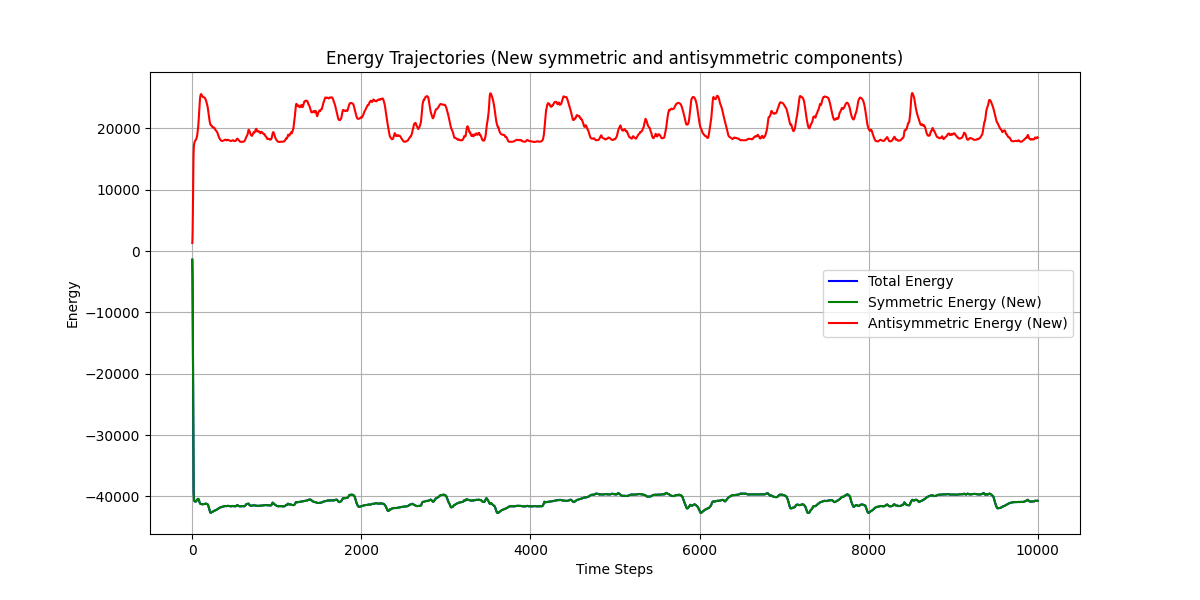
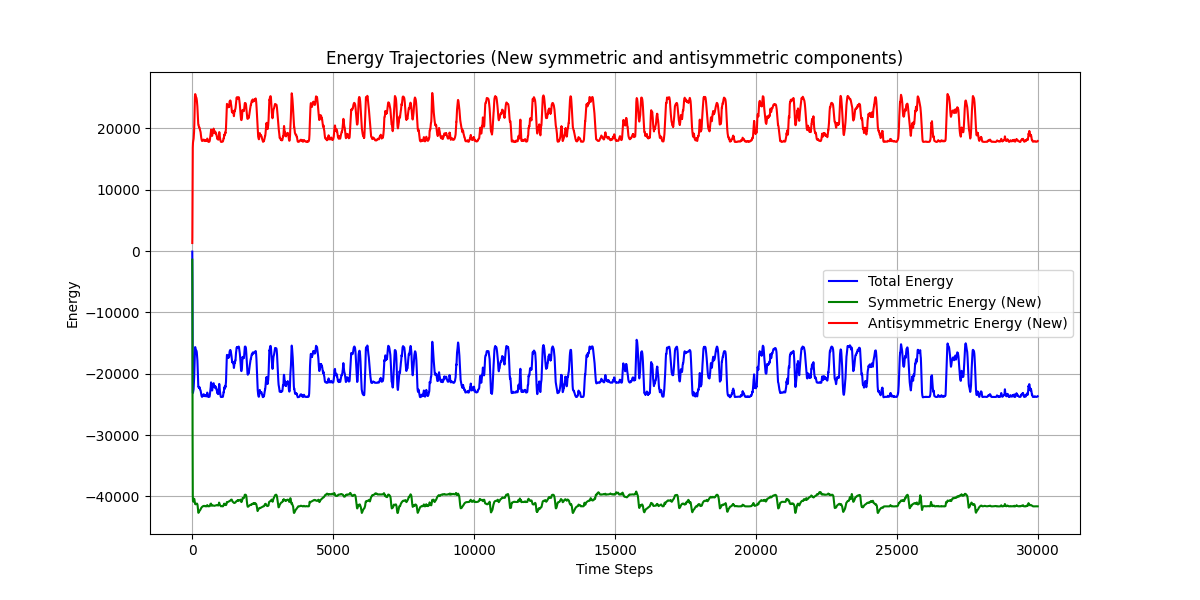
energy

diff --git a/src/energy_plots.py b/src/energy_plots.py
@@ -1,0 +1,135 @@
+"""
+energy_plots.py 
+This module generates energy plots for the neural network simulation.
+"""
+import os
+from flask import app
+import numpy as np
+import matplotlib.pyplot as plt
+from sklearn import naive_bayes
+from sympy import E, use
+from modules.connectivity import generate_connectivity_matrix, plot_matrix
+from modules.dynamics import simulate_network, calculate_pattern_overlaps
+from modules.energy import compute_energy
+
+# Import all parameters from parameters.py
+from parameters import (
+    # Connectivity matrix parameters
+    N,
+    p,
+    q,
+    c,
+    A_S,
+    phi_function_type,
+    phi_amplitude,
+    phi_beta,
+    phi_r_m,
+    phi_x_r,
+    f_type,
+    f_r_m,
+    f_beta,
+    f_x_r,
+    f_q,
+    f_x,
+    g_type,
+    g_r_m,
+    g_beta,
+    g_x_r,
+    g_q,
+    g_x,
+    pattern_mean,
+    pattern_sigma,
+    enforce_max_correlation,
+    max_correlation,
+    alpha,
+    apply_sigma_cutoff,
+    apply_phi_to_patterns,
+    apply_er_to_asymmetric,
+
+    # Simulation parameters
+    tau,
+    t_start,
+    t_end,
+    dt,
+    init_cond_type,
+    pattern_idx,
+    noise_level,
+    use_symmetric_only,
+    model_type,
+    use_numba,
+    use_g,
+    use_ou,
+    tau_zeta,
+    zeta_bar,
+    sigma_zeta,
+    constant_zeta,
+
+    # Visualization parameters
+    n_display,
+    show_sim_plots,
+
+    # Seed for reproducibility
+    seed
+    )
+
+def main():
+    output_dir = os.path.join(os.path.dirname(__file__), "..", "simulation_results")
+    npy_dir = os.path.join(output_dir, "npy")
+
+    # Calculate and plot energy
+    print("Calculating and plotting energy...")
+    # Loading connectivity matrices and history from npy files
+    connectivity_path = os.path.join(npy_dir, "connectivity_total.npy")
+    overlaps_path = os.path.join(npy_dir, "pattern_overlaps.npy")
+    original_symm_path = os.path.join(npy_dir, "connectivity_symmetric.npy")
+    history_path = os.path.join(npy_dir, "firing_rates.npy")
+    phi_memory_patterns_path = os.path.join(npy_dir, "phi_memory_patterns.npy")
+    W, h = np.load(connectivity_path), np.load(history_path)
+    W_symm = np.load(original_symm_path)
+    phi_memory_patterns = np.load(phi_memory_patterns_path)
+    pattern_energies, _, _ = compute_energy(W_symm, phi_memory_patterns)
+    for i in range(pattern_energies.shape[0]):
+        print(f"Energy for pattern {i+1}: {pattern_energies[i]:.4f}")
+    # plot energy trajectory
+    E_symm_traj, syn_terms, act_terms = compute_energy(W_symm, h)
+    E_asymm_traj, _, _ = compute_energy(W - W_symm, h)
+    E_total_traj = E_symm_traj + E_asymm_traj
+    
+    t = np.arange(E_symm_traj.shape[0])  # but time steps are dt seconds apart so multiply by dt
+    t = t * dt
+    plt.figure(figsize=(12, 6))
+    plt.plot(t, E_symm_traj, label='Symmetric Energy', color='green')
+    for i in range(3):
+        pattern_energies[i] = 4.47 * pattern_energies[i] - 33150
+        plt.plot(t, np.full_like(t, pattern_energies[i]), label=f'Pattern {i+1} Energy', linestyle='--')
+    plt.show()
+
+    plt.figure(figsize=(12, 6))
+    plt.plot(t, E_total_traj, label='Total Energy', color='blue')
+    plt.plot(t, E_symm_traj, label='Symmetric Energy', color='green')
+    plt.plot(t, E_asymm_traj, label='Asymmetric Energy', color='red')
+    plt.xlabel('Time Steps')
+    plt.ylabel('Energy')
+    plt.title('Energy Trajectories (Original symmetric and asymmetric components)')
+    plt.legend()
+    plt.grid()
+    plt.savefig(os.path.join(output_dir, "energy_trajectories_original.png"))
+    plt.show()
+    plt.figure(figsize=(12, 6))
+    W_symm_new = 0.5 * (W + W.T)
+    W_antisym_new = 0.5 * (W - W.T)
+    E_symm_new_traj, _, _ = compute_energy(W_symm_new, h)
+    E_asymm_new_traj, _, _ = compute_energy(W_antisym_new, h)
+    plt.plot(t, E_total_traj, label='Total Energy', color='blue')
+    plt.plot(t, E_symm_new_traj, label='Symmetric Energy (New)', color='green')
+    plt.plot(t, E_asymm_new_traj, label='Antisymmetric Energy (New)', color='red')
+    plt.xlabel('Time Steps')
+    plt.ylabel('Energy')
+    plt.title('Energy Trajectories (New symmetric and antisymmetric components)')
+    plt.legend()
+    plt.grid()
+    plt.savefig(os.path.join(output_dir, "energy_trajectories_new.png"))
+    plt.show()
+
+if __name__ == "__main__":
+    main()

diff --git a/src/main.py b/src/main.py
@@ -635,54 +635,5 @@ def main():
         print("Plots not displayed, only saved to files.")
     plt.close('all')  # Close all figures to free memory
 
-    # Calculate and plot energy
-    print("\nCalculating and plotting energy trajectories...")
-    # Load connectivity matrices and history from npy files
-    connectivity_path = os.path.join(npy_dir, "connectivity_total.npy")
-    overlaps_path = os.path.join(npy_dir, "pattern_overlaps.npy")
-    original_symm_path = os.path.join(npy_dir, "connectivity_symmetric.npy")
-    original_asymm_path = os.path.join(npy_dir, "connectivity_asymmetric.npy")
-    history_path = os.path.join(npy_dir, "firing_rates.npy")
-    phi_memory_patterns_path = os.path.join(npy_dir, "phi_memory_patterns.npy")
-    W, h = np.load(connectivity_path), np.load(history_path)
-    W_symm = np.load(original_symm_path)
-    W_asymm = np.load(original_asymm_path)
-    phi_memory_patterns = np.load(phi_memory_patterns_path)
-    patterns = phi_memory_patterns.shape[0] if phi_memory_patterns.ndim > 1 else 1
-    for i in range(patterns):
-        print(f"Energy for pattern {i+1}: {compute_energy(W_symm, phi_memory_patterns[i])}")
-    # plot energy trajectories both original and divided with symmetric and antisymmetric components
-    E_total_traj = compute_energy(W, h)
-    E_symm_traj = compute_energy(W_symm, h)
-    E_asymm_traj = compute_energy(W_asymm, h)
-    t = np.arange(E_total_traj.shape[0])  # but time steps are dt seconds apart so multiply by dt
-    t = t * dt
-    print(E_symm_traj[4300] - E_symm_traj[300])
-    plt.figure(figsize=(12, 6))
-    plt.plot(t, E_total_traj, label='Total Energy', color='blue')
-    plt.plot(t, E_symm_traj, label='Symmetric Energy', color='green')
-    plt.plot(t, E_asymm_traj, label='Asymmetric Energy', color='red')
-    plt.xlabel('Time Steps')
-    plt.ylabel('Energy')
-    plt.title('Energy Trajectories (Original symmetric and asymmetric components)')
-    plt.legend()
-    plt.grid()
-    plt.savefig(os.path.join(output_dir, "energy_trajectories_original.png"))
-    plt.show()
-    plt.figure(figsize=(12, 6))
-    W_symm_new = 0.5 * (W + W.T)
-    W_antisym_new = 0.5 * (W - W.T)
-    E_symm_new_traj, E_asymm_new_traj = compute_energy(W_symm_new, h), compute_energy(W_antisym_new, h)
-    plt.plot(t, E_total_traj, label='Total Energy', color='blue')
-    plt.plot(t, E_symm_new_traj, label='Symmetric Energy (New)', color='green')
-    plt.plot(t, E_asymm_new_traj, label='Antisymmetric Energy (New)', color='red')
-    plt.xlabel('Time Steps')
-    plt.ylabel('Energy')
-    plt.title('Energy Trajectories (New symmetric and antisymmetric components)')
-    plt.legend()
-    plt.grid()
-    plt.savefig(os.path.join(output_dir, "energy_trajectories_new.png"))
-    plt.show()
-
 if __name__ == "__main__":
     main()

diff --git a/src/modules/energy.py b/src/modules/energy.py
@@ -8,6 +8,7 @@ It also computes the energy trajectories for both the original symmetric and asy
 and the new symmetric and antisymmetric components derived from the total connectivity matrix.
 """
 
+import re
 import numpy as np
 from scipy.integrate import quad
 from scipy.interpolate import interp1d
@@ -69,17 +70,25 @@ def compute_energy(
 
     # Compute energy for each state
     energies = np.zeros(M)
+    syn_terms = np.zeros(M)
+    act_terms = np.zeros(M)
     for t in range(M):
         h_t = h[t, :]
         h_t_clipped = np.clip(h_t, h_clip_min, h_clip_max)
 
         # Synaptic term
         energy_syn = -0.5 * h_t @ W @ h_t
+        syn_terms[t] = energy_syn
 
         # Activation term via lookup-table integration
         energy_act = np.sum(interp_integral(h_t_clipped))
+        act_terms[t] = energy_act
 
         energies[t] = energy_syn + energy_act
 
-    return energies[0] if single_state else energies
+    if single_state:
+        return energies[0], syn_terms[0], act_terms[0]
+    else:
+        return energies, syn_terms, act_terms
+
 

diff --git a/src/parameters.py b/src/parameters.py
@@ -58,7 +58,7 @@ apply_er_to_asymmetric = False  # Apply Erdős-Rényi to asymmetric component
 # Time and integration parameters
 tau = 20.0              # Time constant for neural dynamics
 t_start = 0.0           # Simulation start time
-t_end = 10000.0           # Simulation end time
+t_end = 30000.0           # Simulation end time
 dt = 0.2                # Time step for simulation output (increased for efficiency)
 
 # Performance optimization
